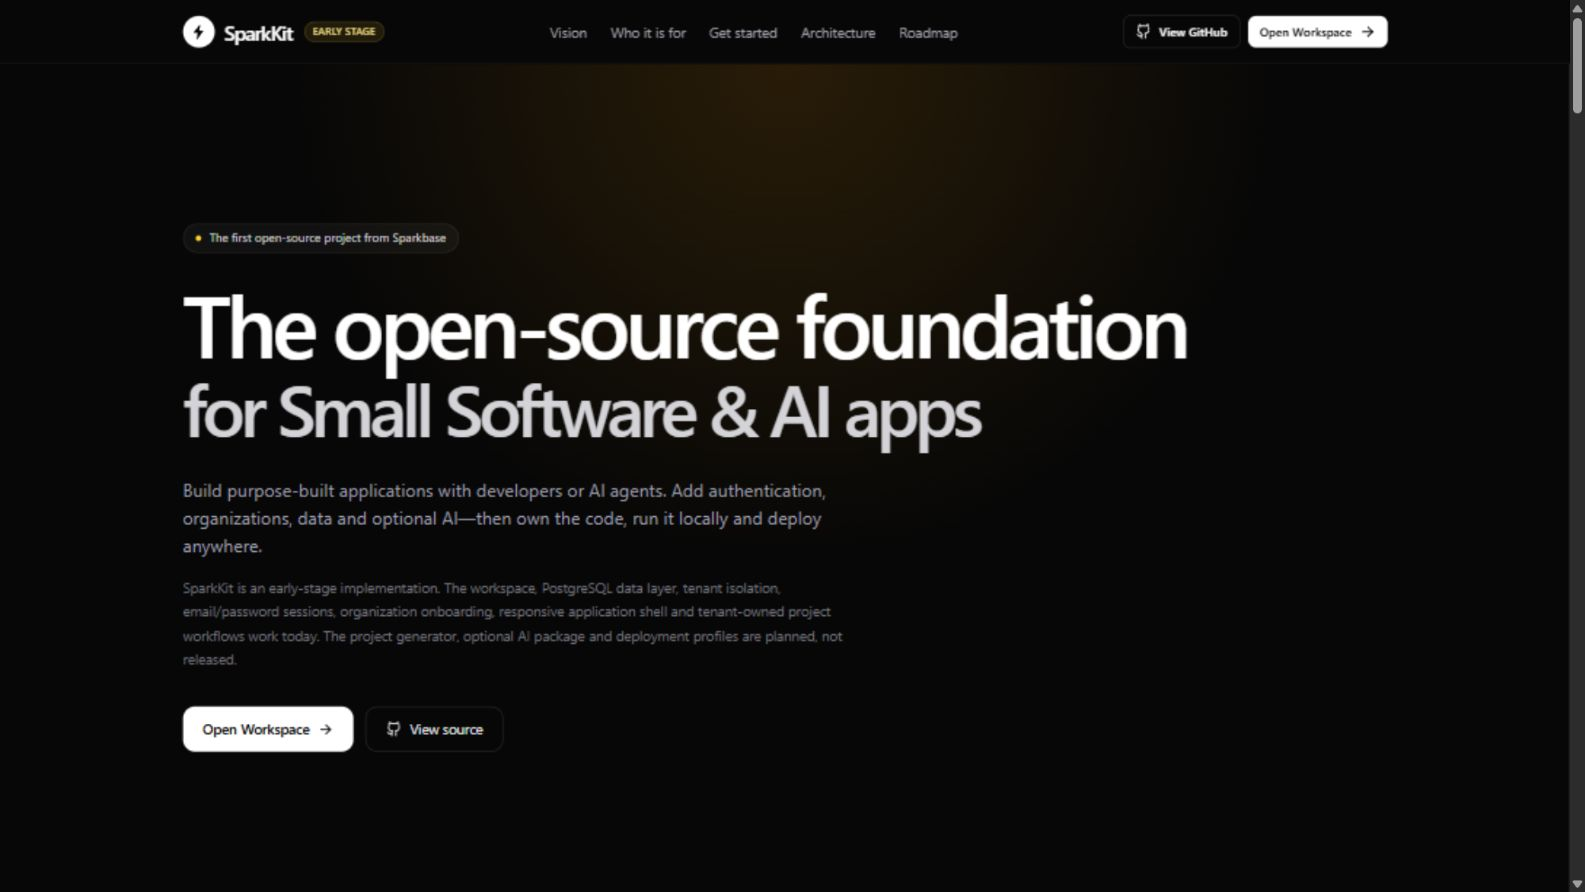
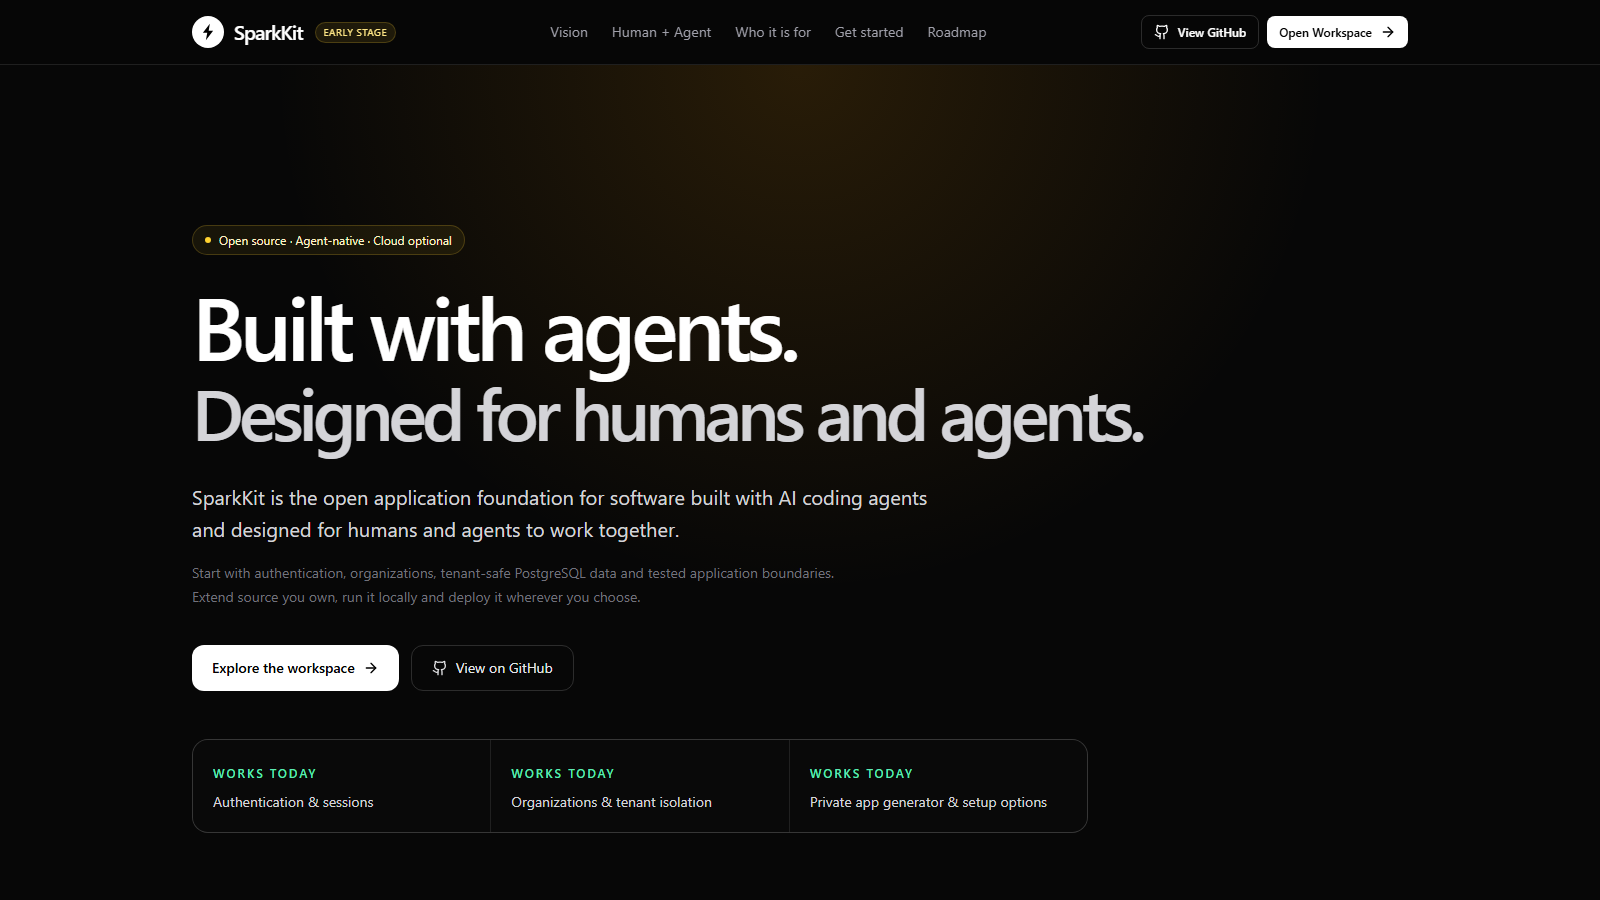
docs: align landing page with agent-native vision

diff --git a/apps/docs/src/SparkKitSite.tsx b/apps/docs/src/SparkKitSite.tsx
@@ -1,8 +1,8 @@
 import React from 'react';
 import {
-  ArrowRight, Bot, Boxes, Check, Cloud, Code2, Container, Database, Github,
-  GitPullRequest, KeyRound, Menu, Network, Package, Server, ShieldCheck,
-  Sparkles, Terminal, X,
+  Activity, ArrowRight, Bot, Boxes, Check, Cloud, Code2, Container, Database,
+  Github, GitPullRequest, KeyRound, Menu, Network, Package, Plug, Server,
+  ShieldCheck, Sparkles, Terminal, Users, Wrench, X,
 } from 'lucide-react';
 
 const githubUrl = 'https://github.com/ousssamarahmani/SparkKit-Core-V1';
@@ -59,8 +59,10 @@ const developerPaths = [
 const roadmap = [
   ['01', 'Repository foundation', 'Complete', 'The real workspace, shared configuration, community files, tests and CI are established.'],
   ['02', 'Data and tenancy', 'Complete', 'Organizations, memberships, local PostgreSQL and verified tenant isolation are implemented.'],
-  ['03', 'Authentication and reference SaaS', 'In progress', 'Sessions, onboarding, authorization, the responsive application shell and tenant-owned project CRUD work; comprehensive UI states are next.'],
-  ['04', 'Project generator', 'Planned', 'Generate a clean application and validate that it installs, tests and builds.'],
+  ['03', 'Reference application', 'Complete', 'Sessions, onboarding, authorization, responsive workspace, project CRUD and browser smoke tests work.'],
+  ['04', 'Project distribution', 'In progress', 'The private generator and setup options work. Generated-project CI and npm publishing preparation are next.'],
+  ['05', 'Agent-native DX', 'Next', 'Add concise repository guidance, three portable skills and measured coding-agent validation.'],
+  ['06', 'Human + Agent runtime', 'Later', 'Prove narrow identity, permissions, tools, approvals and activity in one support workflow.'],
 ];
 
 function BrandLogo({ compact = false }: { compact?: boolean }) {
@@ -84,7 +86,7 @@ function Label({ children, blue = false }: { children: React.ReactNode; blue?: b
 
 export default function SparkKitSite() {
   const [menuOpen, setMenuOpen] = React.useState(false);
-  const links = [['vision', 'Vision'], ['use-cases', 'Who it is for'], ['setup', 'Get started'], ['architecture', 'Architecture'], ['roadmap', 'Roadmap']];
+  const links = [['vision', 'Vision'], ['agent-model', 'Human + Agent'], ['use-cases', 'Who it is for'], ['setup', 'Get started'], ['roadmap', 'Roadmap']];
 
   return (
     <div className="min-h-screen bg-[#070707] text-white selection:bg-amber-300 selection:text-black">
@@ -110,13 +112,13 @@ export default function SparkKitSite() {
         <section className="relative overflow-hidden border-b border-white/10">
           <div className="pointer-events-none absolute inset-0 bg-[radial-gradient(circle_at_50%_0%,rgba(245,158,11,0.14),transparent_43%)]" />
           <div className="relative mx-auto max-w-7xl px-5 py-24 sm:px-8 sm:py-32 lg:py-40">
-            <div className="mb-7 inline-flex items-center gap-2 rounded-full border border-amber-300/20 bg-amber-300/[0.07] px-3 py-1.5 text-xs text-amber-100"><span className="h-1.5 w-1.5 rounded-full bg-amber-300" />Open source · Human + Agent · Cloud optional</div>
+            <div className="mb-7 inline-flex items-center gap-2 rounded-full border border-amber-300/20 bg-amber-300/[0.07] px-3 py-1.5 text-xs text-amber-100"><span className="h-1.5 w-1.5 rounded-full bg-amber-300" />Open source · Agent-native · Cloud optional</div>
             <h1 className="max-w-6xl text-5xl font-semibold leading-[0.96] tracking-[-0.055em] sm:text-7xl lg:text-[88px]">
-              Build small software
-              <span className="mt-2 block text-[0.82em] leading-[1.02] text-zinc-300">that is ready to become real software.</span>
+              Built with agents.
+              <span className="mt-2 block text-[0.82em] leading-[1.02] text-zinc-300">Designed for humans and agents.</span>
             </h1>
-            <p className="mt-8 max-w-3xl text-base leading-7 text-zinc-300 sm:text-xl sm:leading-8">SparkKit is the open-source application foundation for focused software built by developers and AI coding agents—without giving up security, portability, or ownership.</p>
-            <p className="mt-4 max-w-2xl text-sm leading-6 text-zinc-500">Start with authentication, organizations, tenant-safe PostgreSQL data, and a working project workspace. Extend the source you own, run it locally, and deploy it wherever you choose.</p>
+            <p className="mt-8 max-w-3xl text-base leading-7 text-zinc-300 sm:text-xl sm:leading-8">SparkKit is the open application foundation for software built with AI coding agents and designed for humans and agents to work together.</p>
+            <p className="mt-4 max-w-2xl text-sm leading-6 text-zinc-500">Start with authentication, organizations, tenant-safe PostgreSQL data and tested application boundaries. Extend source you own, run it locally and deploy it wherever you choose.</p>
             <div className="mt-9 flex flex-col gap-3 sm:flex-row">
               <a href={workspaceUrl} className="inline-flex items-center justify-center gap-2 rounded-xl bg-white px-5 py-3 text-sm font-semibold text-black transition hover:bg-zinc-200">Explore the workspace <ArrowRight className="h-4 w-4" /></a>
               <a href={githubUrl} target="_blank" rel="noreferrer" className="inline-flex items-center justify-center gap-2 rounded-xl border border-white/15 px-5 py-3 text-sm text-zinc-200 transition hover:bg-white/5"><Github className="h-4 w-4" /> View on GitHub</a>
@@ -124,24 +126,40 @@ export default function SparkKitSite() {
             <div className="mt-12 grid max-w-4xl gap-px overflow-hidden rounded-2xl border border-white/10 bg-white/10 sm:grid-cols-3">
               <div className="bg-[#090909] p-5"><span className="text-xs font-medium uppercase tracking-[0.16em] text-emerald-300">Works today</span><p className="mt-2 text-sm text-zinc-300">Authentication &amp; sessions</p></div>
               <div className="bg-[#090909] p-5"><span className="text-xs font-medium uppercase tracking-[0.16em] text-emerald-300">Works today</span><p className="mt-2 text-sm text-zinc-300">Organizations &amp; tenant isolation</p></div>
-              <div className="bg-[#090909] p-5"><span className="text-xs font-medium uppercase tracking-[0.16em] text-amber-200">Next</span><p className="mt-2 text-sm text-zinc-300">Generate your own SparkKit app</p></div>
+              <div className="bg-[#090909] p-5"><span className="text-xs font-medium uppercase tracking-[0.16em] text-emerald-300">Works today</span><p className="mt-2 text-sm text-zinc-300">Private app generator &amp; setup options</p></div>
             </div>
           </div>
         </section>
 
         <section id="vision" className="border-b border-white/10 py-20 sm:py-28">
           <div className="mx-auto grid max-w-7xl gap-10 px-5 sm:px-8 lg:grid-cols-[0.8fr_1.2fr] lg:items-start">
-            <div><Label>Product vision</Label><h2 className="mt-4 text-3xl font-semibold tracking-tight sm:text-5xl">A reliable starting point for small, useful software.</h2><p className="mt-5 leading-7 text-zinc-400">SparkKit is for applications that are narrower than a large enterprise platform but deserve the same care around identity, data ownership, isolation, testing, and deployment.</p></div>
-            <div className="grid gap-4 sm:grid-cols-2"><VisionCard number="01" title="Humans and agents build together" text="A software developer can work directly in the codebase or delegate bounded work to an AI coding agent using the same architecture and quality gates." /><VisionCard number="02" title="The application stays yours" text="SparkKit produces a normal TypeScript project. Your product is not trapped inside a proprietary builder or required managed cloud." /><VisionCard number="03" title="AI is a capability, not the foundation" text="Add models where they improve the product while authentication, tenancy, permissions and data remain ordinary application concerns." /><VisionCard number="04" title="Proof before promises" text="Features move from planned to available only when code, tests and documentation exist in the public repository." /></div>
+            <div><Label>Product vision</Label><h2 className="mt-4 text-3xl font-semibold tracking-tight sm:text-5xl">One foundation. Three focused layers.</h2><p className="mt-5 leading-7 text-zinc-400">The application foundation stays at the center. Agent-native guidance helps coding agents extend it safely. Future runtime primitives let humans and agents participate in the same organization and workflows.</p></div>
+            <div className="grid gap-4"><VisionCard number="01" title="Application foundation" text="Authentication, organizations, tenant isolation, authorization, PostgreSQL, tests and portable TypeScript code remain the core." /><VisionCard number="02" title="Agent-native development" text="A concise AGENTS.md and portable skills will teach coding agents how to add tenant-owned features and verify them safely." /><VisionCard number="03" title="Application runtime" text="Future agents receive identities, permissions, allowed tools, human approvals and understandable activity history inside the application." /><VisionCard number="04" title="MCP at the edge" text="MCP will connect external tools only after SparkKit identity, authorization, approval and activity checks—not replace them." /></div>
+          </div>
+        </section>
+
+        <section id="agent-model" className="border-b border-white/10 py-20 sm:py-28">
+          <div className="mx-auto max-w-7xl px-5 sm:px-8">
+            <div className="mb-12 max-w-3xl"><Label>Two kinds of agents</Label><h2 className="mt-4 text-3xl font-semibold tracking-tight sm:text-5xl">Build-time guidance is not runtime authority.</h2><p className="mt-5 leading-7 text-zinc-400">Coding agents and application agents solve different problems. SparkKit keeps their responsibilities and security boundaries explicit.</p></div>
+            <div className="grid overflow-hidden rounded-3xl border border-white/10 lg:grid-cols-2">
+              <AgentLayer icon={Code2} status="Next" title="Coding agents build with SparkKit" text="Codex, Claude Code, Cursor, GitHub Copilot and compatible tools follow one canonical set of architecture and security conventions." points={['AGENTS.md explains the repository contract', 'Portable skills guide tenant-safe changes', 'Verification gates prevent premature completion']} />
+              <AgentLayer icon={Users} status="Future" title="Application agents work with humans" text="Runtime agents become organization-owned application participants rather than unrestricted model keys or background scripts." points={['Identity and organization scope', 'ALLOW · DENY · REQUIRE_APPROVAL', 'Tools, human approval and activity history']} future />
+            </div>
+            <div className="mt-5 grid gap-4 md:grid-cols-3">
+              <DirectionCard icon={Wrench} title="Application tools" text="Native and external tools share the same application authorization path." />
+              <DirectionCard icon={Activity} title="Visible activity" text="People can understand what an agent requested, what ran and what required approval." />
+              <DirectionCard icon={Plug} title="MCP adapter" text="MCP connects services later; it never grants application authority by itself." />
+            </div>
+            <p className="mt-6 rounded-2xl border border-amber-300/20 bg-amber-300/[0.05] p-5 text-sm leading-6 text-zinc-300"><strong className="text-amber-100">Scope discipline:</strong> runtime agents and MCP are product direction, not released capabilities. Version 0.1 remains focused on a reliable, installable application foundation.</p>
           </div>
         </section>
 
         <section id="use-cases" className="border-b border-white/10 py-20 sm:py-28">
-          <div className="mx-auto max-w-7xl px-5 sm:px-8"><div className="mb-12 max-w-3xl"><Label>Who SparkKit is for</Label><h2 className="mt-4 text-3xl font-semibold tracking-tight sm:text-5xl">Two development paths. One secure foundation.</h2><p className="mt-5 leading-7 text-zinc-400">Use SparkKit to build software with AI assistance, to build AI into the product, or both. The engineering boundary stays the same.</p></div><div className="grid gap-5 lg:grid-cols-2">{developerPaths.map(({ icon: Icon, audience, title, description, steps, outcome }) => <article key={audience} className="rounded-3xl border border-white/10 bg-white/[0.025] p-7 sm:p-9"><div className="flex items-center gap-3"><span className="grid h-10 w-10 place-items-center rounded-xl border border-white/10 bg-black"><Icon className="h-5 w-5 text-amber-200" /></span><p className="text-xs font-semibold uppercase tracking-[0.18em] text-zinc-500">{audience}</p></div><h3 className="mt-6 text-2xl font-semibold">{title}</h3><p className="mt-4 leading-7 text-zinc-400">{description}</p><ol className="mt-7 grid gap-3">{steps.map((step, index) => <li key={step} className="flex gap-3 text-sm leading-6 text-zinc-300"><span className="font-mono text-xs text-zinc-600">0{index + 1}</span>{step}</li>)}</ol><p className="mt-7 border-t border-white/10 pt-6 text-sm leading-6 text-zinc-400"><span className="font-medium text-white">Outcome: </span>{outcome}</p></article>)}</div></div>
+          <div className="mx-auto max-w-7xl px-5 sm:px-8"><div className="mb-12 max-w-3xl"><Label>Who SparkKit is for</Label><h2 className="mt-4 text-3xl font-semibold tracking-tight sm:text-5xl">Developers and coding agents. One secure foundation.</h2><p className="mt-5 leading-7 text-zinc-400">Build focused software with AI assistance today, then add runtime agents only where they create real application value. The engineering boundary stays the same.</p></div><div className="grid gap-5 lg:grid-cols-2">{developerPaths.map(({ icon: Icon, audience, title, description, steps, outcome }) => <article key={audience} className="rounded-3xl border border-white/10 bg-white/[0.025] p-7 sm:p-9"><div className="flex items-center gap-3"><span className="grid h-10 w-10 place-items-center rounded-xl border border-white/10 bg-black"><Icon className="h-5 w-5 text-amber-200" /></span><p className="text-xs font-semibold uppercase tracking-[0.18em] text-zinc-500">{audience}</p></div><h3 className="mt-6 text-2xl font-semibold">{title}</h3><p className="mt-4 leading-7 text-zinc-400">{description}</p><ol className="mt-7 grid gap-3">{steps.map((step, index) => <li key={step} className="flex gap-3 text-sm leading-6 text-zinc-300"><span className="font-mono text-xs text-zinc-600">0{index + 1}</span>{step}</li>)}</ol><p className="mt-7 border-t border-white/10 pt-6 text-sm leading-6 text-zinc-400"><span className="font-medium text-white">Outcome: </span>{outcome}</p></article>)}</div></div>
         </section>
 
         <section id="setup" className="border-b border-white/10 py-20 sm:py-28">
-          <div className="mx-auto max-w-7xl px-5 sm:px-8"><div className="mb-12 max-w-3xl"><Label>Use the repository today</Label><h2 className="mt-4 text-3xl font-semibold tracking-tight sm:text-5xl">Local setup, step by step</h2><p className="mt-5 leading-7 text-zinc-400">Requirements: Node.js 24 or 26, pnpm 11, Git, and Docker Desktop. These commands run the current source repository; the shorter <code className="text-zinc-300">create-sparkkit</code> flow remains a future milestone.</p></div><div className="grid gap-4 lg:grid-cols-2">{localSetup.map(([number, title, command]) => <article key={number} className="overflow-hidden rounded-2xl border border-white/10 bg-black"><div className="flex items-center gap-3 border-b border-white/10 px-5 py-4"><span className="font-mono text-xs text-zinc-600">{number}</span><h3 className="font-medium">{title}</h3></div><pre className="overflow-x-auto whitespace-pre-wrap p-5 font-mono text-xs leading-6 text-amber-100">{command}</pre></article>)}</div><div className="mt-6 rounded-2xl border border-blue-300/20 bg-blue-300/[0.05] p-6 text-sm leading-6 text-zinc-300"><strong className="text-white">Before production:</strong> replace the local authentication secret, use a production PostgreSQL connection, review cookie and CSRF settings, configure rate limits, and run <code>pnpm check</code>. Those hardening tasks are tracked openly in Milestone 2.4.</div></div>
+          <div className="mx-auto max-w-7xl px-5 sm:px-8"><div className="mb-12 max-w-3xl"><Label>Use the repository today</Label><h2 className="mt-4 text-3xl font-semibold tracking-tight sm:text-5xl">Local setup, step by step</h2><p className="mt-5 leading-7 text-zinc-400">Requirements: Node.js 24 or 26, pnpm 11, Git, and Docker Desktop. These commands run the current source repository. The private <code className="text-zinc-300">create-sparkkit</code> CLI and its setup options work today; npm publication and clean generated-project CI are still in progress.</p></div><div className="grid gap-4 lg:grid-cols-2">{localSetup.map(([number, title, command]) => <article key={number} className="overflow-hidden rounded-2xl border border-white/10 bg-black"><div className="flex items-center gap-3 border-b border-white/10 px-5 py-4"><span className="font-mono text-xs text-zinc-600">{number}</span><h3 className="font-medium">{title}</h3></div><pre className="overflow-x-auto whitespace-pre-wrap p-5 font-mono text-xs leading-6 text-amber-100">{command}</pre></article>)}</div><div className="mt-6 rounded-2xl border border-blue-300/20 bg-blue-300/[0.05] p-6 text-sm leading-6 text-zinc-300"><strong className="text-white">Before production:</strong> replace the local authentication secret, use a production PostgreSQL connection, review cookie and CSRF settings, configure rate limits, and run <code>pnpm check</code>.</div></div>
         </section>
 
         <section className="border-b border-white/10 py-20 sm:py-24">
@@ -183,7 +201,7 @@ export default function SparkKitSite() {
         </section>
 
         <section id="roadmap" className="border-b border-white/10 py-20 sm:py-28">
-          <div className="mx-auto max-w-7xl px-5 sm:px-8"><div className="mb-12 max-w-3xl"><Label>Open roadmap</Label><h2 className="mt-4 text-3xl font-semibold tracking-tight sm:text-5xl">Build the proof before the promise</h2><p className="mt-5 leading-7 text-zinc-400">A milestone is complete only after its code, tests and documentation exist publicly.</p></div><div className="grid gap-px overflow-hidden rounded-2xl border border-white/10 bg-white/10 md:grid-cols-2 lg:grid-cols-4">{roadmap.map(([step, title, status, text]) => <article key={step} className="bg-[#0a0a0a] p-6"><div className="flex justify-between"><span className="font-mono text-xs text-zinc-600">{step}</span><span className="rounded-full border border-white/10 px-2 py-1 text-[10px] uppercase tracking-wider text-zinc-400">{status}</span></div><h3 className="mt-10 text-lg font-semibold">{title}</h3><p className="mt-3 text-sm leading-6 text-zinc-400">{text}</p></article>)}</div></div>
+          <div className="mx-auto max-w-7xl px-5 sm:px-8"><div className="mb-12 max-w-3xl"><Label>Open roadmap</Label><h2 className="mt-4 text-3xl font-semibold tracking-tight sm:text-5xl">Distribute first. Prove agent value next.</h2><p className="mt-5 leading-7 text-zinc-400">Version 0.1 remains a reliable, installable application foundation. Runtime agents and MCP will not delay distribution or external developer validation.</p></div><div className="grid gap-px overflow-hidden rounded-2xl border border-white/10 bg-white/10 md:grid-cols-2 lg:grid-cols-3">{roadmap.map(([step, title, status, text]) => <article key={step} className="bg-[#0a0a0a] p-6"><div className="flex justify-between"><span className="font-mono text-xs text-zinc-600">{step}</span><span className="rounded-full border border-white/10 px-2 py-1 text-[10px] uppercase tracking-wider text-zinc-400">{status}</span></div><h3 className="mt-10 text-lg font-semibold">{title}</h3><p className="mt-3 text-sm leading-6 text-zinc-400">{text}</p></article>)}</div></div>
         </section>
 
         <section id="sparkbase" className="relative overflow-hidden py-20 sm:py-28">
@@ -195,6 +213,14 @@ export default function SparkKitSite() {
       <footer className="border-t border-white/10"><div className="mx-auto flex max-w-7xl flex-col gap-5 px-5 py-8 text-sm text-zinc-500 sm:flex-row sm:items-center sm:justify-between sm:px-8"><span className="flex items-center gap-3 text-zinc-300"><BrandLogo compact /><span>by Sparkbase</span></span><span>Early-stage open-source project. Roadmap capabilities are clearly labelled.</span><a href={githubUrl} target="_blank" rel="noreferrer" className="flex items-center gap-2 text-zinc-300 hover:text-white"><Github className="h-4 w-4" /> GitHub</a></div></footer>
     </div>
   );
+}
+
+function AgentLayer({ icon: Icon, status, title, text, points, future = false }: { icon: typeof Code2; status: string; title: string; text: string; points: string[]; future?: boolean }) {
+  return <article className={`p-7 sm:p-9 ${future ? 'bg-blue-400/[0.045]' : 'border-b border-white/10 bg-white/[0.025] lg:border-b-0 lg:border-r'}`}><div className="flex items-start justify-between gap-4"><span className="grid h-11 w-11 place-items-center rounded-xl border border-white/10 bg-black"><Icon className={`h-5 w-5 ${future ? 'text-blue-300' : 'text-amber-200'}`} /></span><span className="rounded-full border border-white/10 px-2.5 py-1 text-[10px] uppercase tracking-wider text-zinc-400">{status}</span></div><h3 className="mt-7 text-2xl font-semibold">{title}</h3><p className="mt-4 leading-7 text-zinc-400">{text}</p><div className="mt-7 grid gap-3">{points.map(point => <p key={point} className="flex gap-3 text-sm leading-6 text-zinc-300"><Check className="mt-1 h-4 w-4 shrink-0 text-zinc-500" />{point}</p>)}</div></article>;
+}
+
+function DirectionCard({ icon: Icon, title, text }: { icon: typeof Wrench; title: string; text: string }) {
+  return <article className="rounded-2xl border border-white/10 bg-black p-6"><Icon className="h-5 w-5 text-zinc-500" /><h3 className="mt-5 font-semibold">{title}</h3><p className="mt-3 text-sm leading-6 text-zinc-400">{text}</p></article>;
 }
 
 function DeployCard({ icon: Icon, title, status, text }: { icon: typeof Container; title: string; status: string; text: string }) {

diff --git a/apps/docs/index.html b/apps/docs/index.html
@@ -3,8 +3,8 @@
   <head>
     <meta charset="UTF-8" />
     <meta name="viewport" content="width=device-width, initial-scale=1.0" />
-    <meta name="description" content="SparkKit is the planned open-source foundation for building Small Software and AI applications." />
-    <title>SparkKit — The open-source foundation for Small Software & AI apps</title>
+    <meta name="description" content="SparkKit is the open application foundation for software built with AI coding agents and designed for humans and agents to work together." />
+    <title>SparkKit — Built with agents. Designed for humans and agents.</title>
   </head>
   <body>
     <div id="root"></div>

diff --git a/README.md b/README.md
@@ -17,7 +17,7 @@
 ---
 
 <picture>
-  <img src="./assets/github/sparkkit-repository-hero.png" alt="SparkKit project website presenting the open-source foundation for Small Software and AI applications" width="100%" />
+  <img src="./assets/github/sparkkit-repository-hero.png" alt="SparkKit landing page presenting an open application foundation built with agents and designed for humans and agents" width="100%" />
 </picture>
 
 > [!IMPORTANT]
